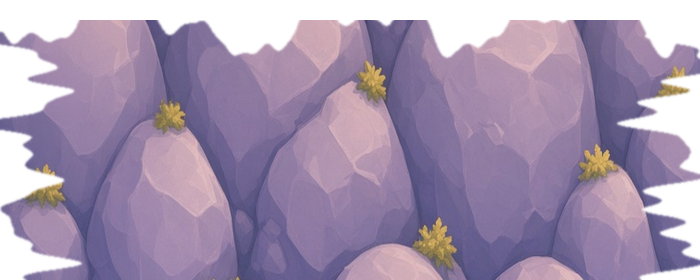
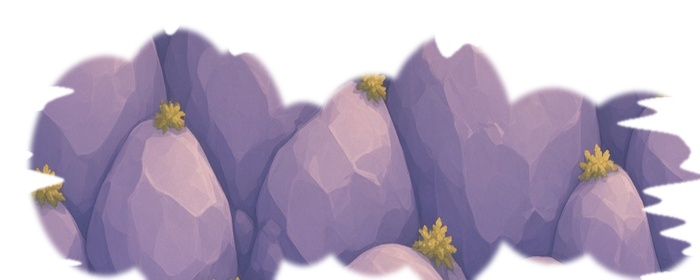
Stage v14 ravine art and opaque shelf placement
Replace the matching staging ravine images with the v14 polish: broad rocky skyline, re-cut shelves, and scalloped lips. The volcano core, glow, and smoke stay as they were. Shelves are drawn opaque and kept outside the path so they no longer ghost a rectangle over the road.

diff --git a/test-e2eb104dfc7fcce4/game3/level3.js b/test-e2eb104dfc7fcce4/game3/level3.js
@@ -174,8 +174,11 @@ const rav3 = { bands: [], near: [], ash: [], ground: [] };
    `side` = left/right art anchored just outside the sand (scen3Clear). `corner` = near lips at the bottom corners. */
 const L3_RAV_BANDS = [
   { id: 'corridor', full: true, pinned: true, srcL: 'ravine_corridor_left.png', srcR: 'ravine_corridor_right.png', w: 1920, h: 1080, n: 1, gapU: null, factor: 'scenery', z: 2, opac: 0.9, parent: 'mid' },
-  { id: 'shelf_mid', full: false, srcL: 'shelf_mid_left.png', srcR: 'shelf_mid_right.png', w: 700, h: 280, n: 2, gapU: null, factor: 'scenery', z: 4, opac: 0.4, parent: 'mid', gMul: 1.4, lift: false, uMin: 0.4, uMax: 0.95 },
-  { id: 'lip_near', full: false, srcL: 'lip_near_left.png', srcR: 'lip_near_right.png', w: 900, h: 420, n: 3, gapU: null, factor: 'near', z: 8, opac: 1, parent: 'near', gMul: 1.15, lift: true, uMin: 0.65, uMax: 1.12 }
+  /* shelf art is an opaque rock clump. Drawing it at 0.4 ghosted a rectangle over the corridor and the sand.
+     innerL/innerR are px from the anchor to the inner opaque pixel, so the clump stays outside the path. */
+  { id: 'shelf_mid', full: false, srcL: 'shelf_mid_left.png', srcR: 'shelf_mid_right.png', w: 700, h: 280, n: 2, gapU: null, factor: 'scenery', z: 4, opac: 1, parent: 'mid', gMul: 1.4, lift: false, uMin: 0.5, uMax: 0.92, innerL: 348, innerR: 324 },
+  /* lips stay large and low. A lower uMin let the flat plateau shrink into a block over the scenery. */
+  { id: 'lip_near', full: false, srcL: 'lip_near_left.png', srcR: 'lip_near_right.png', w: 900, h: 420, n: 3, gapU: null, factor: 'near', z: 8, opac: 1, parent: 'near', gMul: 1.15, lift: true, uMin: 0.84, uMax: 1.12, innerL: 160, innerR: 110 }
 ];
 function rav3Factor(kind) {
   if (kind === 'far') return L3_CFG.sceneryFactor * (L3_CFG.ridgeFarSpeed || 0.2);
@@ -281,10 +284,10 @@ function drawRavine3() {
           o.el.style.opacity = (band.opac * edge).toFixed(2);
         }
       } else {
-        // side accents sit clearly outside the sand; lips hug the near corners
-        var half = band.w / 2;
-        // keep the inner edge of side art past the sand: clear margin + a fraction of the art width
-        var ground = o.side * Math.max(scen3Clear(o.side, half * 0.55), (L3_EDGE[String(o.side)] + 80) * (band.gMul || 1));
+        // side accents sit outside the sand. innerL/innerR is the opaque reach toward the road, in image px.
+        var inward = (o.side < 0 ? band.innerL : band.innerR);
+        if (inward == null) inward = band.w / 2;
+        var ground = o.side * (L3_EDGE[String(o.side)] + L3_CFG.edgeClearPx + inward * (band.gMul || 1));
         var p = scen3Pos(u, ground);
         var m = p.s * (band.gMul || 1);
         o.el.style.transform = 'translate(' + p.x.toFixed(1) + 'px,' + p.y.toFixed(1) + 'px) scale(' + m.toFixed(4) + ',' + m.toFixed(4) + ')';
